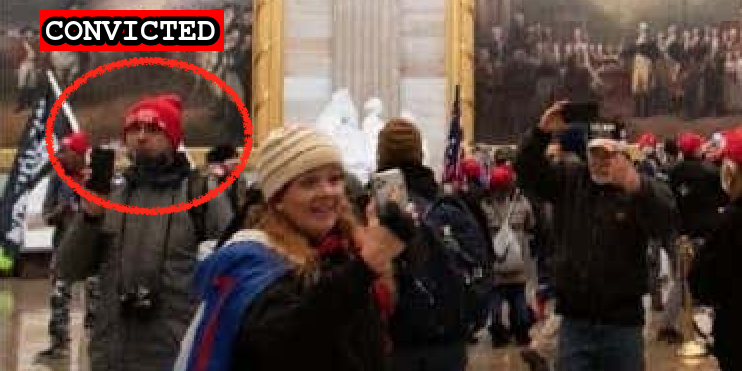
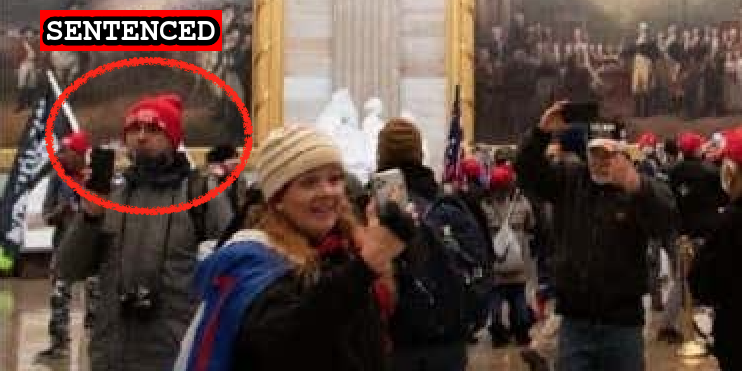
Rosa sentence

Changed region(s): [[0.062, 0.0296, 0.248, 0.1482]]

diff --git a/commands/suspect-verify.ts b/commands/suspect-verify.ts
@@ -3,14 +3,14 @@ import { exitWithError, info } from "./common/console";
 import fs from "fs";
 import { readFile } from "./common/file";
 import { getSuspectByFile, updateSuspect } from "./common/suspect";
-const { execSync } = require('child_process')
+const { execSync } = require("child_process");
 import { isEmpty, update } from "lodash";
 
-const verify = new Command()
+const verify = new Command();
 verify.parse(process.argv);
 
 const doVerify = () => {
-  const suspects = fs.readdirSync('./docs/_suspects');
+  const suspects = fs.readdirSync("./docs/_suspects");
 
   for (const filename of suspects) {
     const suspect = getSuspectByFile(filename);
@@ -25,13 +25,13 @@ const doVerify = () => {
     }
 
     // make sure there are no empty links
-    const suspectText = readFile(`./docs/_suspects/${filename}`)
+    const suspectText = readFile(`./docs/_suspects/${filename}`);
     if (suspect.published && /- \[.*]\(\)/.test(suspectText)) {
-      exitWithError(`Empty link for ${suspect.name}`)
+      exitWithError(`Empty link for ${suspect.name}`);
     }
 
     if (suspect.status == "Indicted" && !suspect.indicted) {
-      if (!suspect.name.includes("Pruitt") &&  !suspect.name.includes("Ehrke") && !suspect.name.includes("Loftus")) {
+      if (!suspect.name.includes("Pruitt") && !suspect.name.includes("Ehrke") && !suspect.name.includes("Loftus")) {
         exitWithError(`Missing indictment date for ${suspect.name}`);
       }
     }
@@ -44,27 +44,31 @@ const doVerify = () => {
       exitWithError(`Missing sentenced date for ${suspect.name}`);
     }
 
+    if (suspect.status == "Sentenced" && suspect.sentence.length == 0) {
+      exitWithError(`Missing sentencing information for ${suspect.name}`);
+    }
+
     if (!suspect.charged) {
-      suspect.charged = suspect.date
-      updateSuspect(suspect)
-      execSync(`git add docs/_suspects/${filename}`)
+      suspect.charged = suspect.date;
+      updateSuspect(suspect);
+      execSync(`git add docs/_suspects/${filename}`);
     }
 
     if (fs.existsSync(`docs/${suspect.image}`)) {
       continue;
     } else {
       // no preview found, let's try generating one
-      info(`Generating preview for ${suspect.name}`)
+      info(`Generating preview for ${suspect.name}`);
       try {
-        const previewImage = suspect.image.replace("/images/preview/", "")
-        execSync(`yarn suspect preview -f ${previewImage} -s ${suspect.status}`)
-        execSync(`git add docs/images/preview`)
+        const previewImage = suspect.image.replace("/images/preview/", "");
+        execSync(`yarn suspect preview -f ${previewImage} -s ${suspect.status}`);
+        execSync(`git add docs/images/preview`);
       } catch (error) {
-        exitWithError(`No preview exists for ${suspect.name}`)
+        exitWithError(`No preview exists for ${suspect.name}`);
       }
     }
   }
   return;
-}
+};
 
 doVerify();

diff --git a/docs/_suspects/eliel-rosa.md b/docs/_suspects/eliel-rosa.md
@@ -4,12 +4,12 @@ lastName: Rosa
 hashtag: ElielRosa
 aka:
 residence: Texas
-status: Convicted
+status: Sentenced
 date: 2021-01-13
 charged: 2021-01-13
 indicted: 2021-02-03
 convicted: 2021-07-29
-sentenced:
+sentenced: 2021-10-12
 dismissed:
 deceased:
 plea_hearing: 2021-07-29
@@ -34,12 +34,16 @@ published: true
 caseNumber: 1:21-cr-68
 videos:
 charges:
-- code: 18 USC § 5104(e)(2)(G)
-  title: Parading, Demonstrating or Picketing in a Capitol Building
-  url: https://www.law.cornell.edu/uscode/text/40/5104
-  felony: false
+  - code: 18 USC § 5104(e)(2)(G)
+    title: Parading, Demonstrating or Picketing in a Capitol Building
+    url: https://www.law.cornell.edu/uscode/text/40/5104
+    felony: false
 sentence:
+  - 1 year probation
+  - 100 hours of community service
+  - $500 restitution
 ---
+
 - [News Report](https://www.kiiitv.com/article/news/local/jenny-cudd-fbi-arrested/513-fb4ff454-3bf0-4648-8983-660ec8f2601e)
 - [Statement of Facts](https://www.justice.gov/opa/page/file/1353436/download)
 - [Complaint](https://www.justice.gov/opa/page/file/1353431/download)
